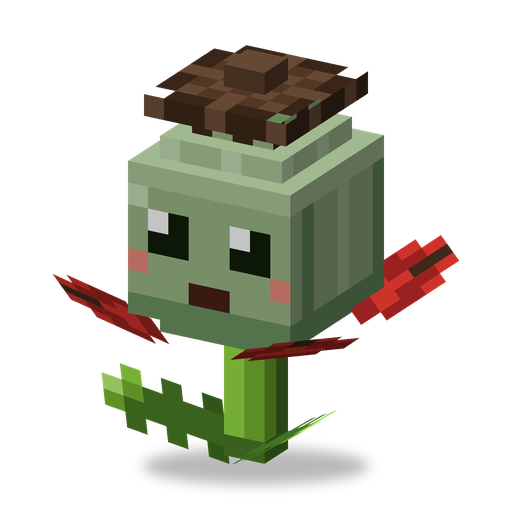
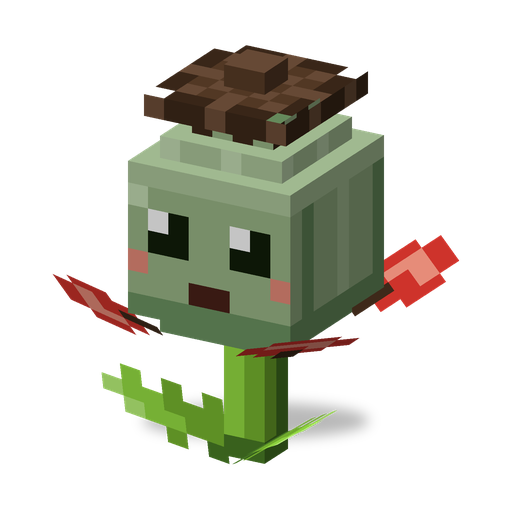
docs: character pictures draw only the faces a box lists
render_character.py reads addBox(..., visibleSides), inline or a named
EnumSet constant, so the Poppy Rattle's one-sided petals and leaves look
in the pictures as in the game.

diff --git a/tools/docs/render_character.py b/tools/docs/render_character.py
@@ -91,7 +91,7 @@ class Part:
         self.offset = np.zeros(3)
         self.rotation = np.zeros(3)  # radians, x y z
         self.scale = np.ones(3)
-        self.cubes = []              # (u, v, mirror, x, y, z, w, h, d, inflate)
+        self.cubes = []              # (u, v, mirror, x, y, z, w, h, d, inflate, faces or None = all)
         self.children = []
 
 
@@ -100,8 +100,22 @@ def strip_comments(text):
     return re.sub(r"//[^\n]*", "", text)
 
 
+# Minecraft's Direction of a box face -> the face name here. Model Y points down, so DOWN is the face at
+# the box's top (seen from above) and UP the one at its bottom.
+DIRECTION_FACES = {"DOWN": "top", "UP": "bottom", "NORTH": "north", "SOUTH": "south", "WEST": "west", "EAST": "east"}
+
+
+def parse_faces(expr):
+    """Face names of an `EnumSet.of(Direction.X, ...)` expression, or None if it lists none."""
+    names = [DIRECTION_FACES[d] for d in re.findall(r"Direction\.(\w+)", expr) if d in DIRECTION_FACES]
+    return set(names) or None
+
+
 def parse_model(text):
     text = strip_comments(text)
+    # named face sets, as in `val ONE_FACE: Set<Direction> = EnumSet.of(Direction.DOWN)`
+    face_sets = {m.group(1): parse_faces(m.group(2)) for m in re.finditer(
+        r"\b(\w+)\s*(?::[^=\n]*)?=\s*(?:java\.util\.)?EnumSet\.of\(([^()]*)\)", text)}
     size = re.search(r"LayerDefinition\.create\(\s*\w+\s*,\s*(\d+)\s*,\s*(\d+)\s*\)", text)
     tex_w, tex_h = (int(size.group(1)), int(size.group(2))) if size else (64, 64)
     root = Part("root", None)
@@ -144,7 +158,11 @@ def parse_model(text):
                 if deformation:
                     inflate = num(deformation.group(1))
                 box = [num(x) for x in values[:6]]
-                part.cubes.append((u, v, mirror, *box, inflate))
+                # addBox(x, y, z, w, h, d, visibleSides): only the listed faces are drawn
+                faces = parse_faces(args)
+                for name in re.findall(r"\b([A-Z][A-Z0-9_]+)\b", args):
+                    faces = faces or face_sets.get(name)
+                part.cubes.append((u, v, mirror, *box, inflate, faces))
     return root, (tex_w, tex_h)
 
 
@@ -222,7 +240,7 @@ MODEL_TO_WORLD[1, 3] = 24.0
 
 def collect_faces(part, parent_matrix, faces):
     matrix = parent_matrix @ part_matrix(part)
-    for (u, v, mirror, x, y, z, w, h, d, g) in part.cubes:
+    for (u, v, mirror, x, y, z, w, h, d, g, visible) in part.cubes:
         x0, y0, z0, x1, y1, z1 = x - g, y - g, z - g, x + w + g, y + h + g, z + d + g
         # (texture rect u, v, width, height), origin corner, s-edge, t-edge, local outward normal
         tw, th, td = w, h, d
@@ -237,6 +255,8 @@ def collect_faces(part, parent_matrix, faces):
         if mirror:  # Minecraft swaps the east/west textures and flips u
             defs["west"], defs["east"] = (defs["east"][0],) + defs["west"][1:], (defs["west"][0],) + defs["east"][1:]
         for name, (rect, o, s_end, t_end, normal) in defs.items():
+            if visible is not None and name not in visible:
+                continue  # addBox(..., visibleSides) leaves this face out
             if rect[2] <= 0 or rect[3] <= 0:
                 continue  # zero-area face of a flat plane
             pts = [np.array([*p, 1.0]) for p in (o, s_end, t_end)]

diff --git a/art/poppy_rattle/draw_poppy_rattle.py b/art/poppy_rattle/draw_poppy_rattle.py
@@ -152,8 +152,8 @@ def draw_body(eyes="open"):
     fill(img, 46, 17, 4, 6, PAPER_SH)
 
     # ---- petal plane 5x0x5 at (0,27): row 0 at the head, row 4 the tip; a black blotch at the base ----
-    # The game draws only the first square (the side seen from above, ONE_FACE in the model); the second
-    # is the underside the docs renderer still shows.
+    # Only the first square is drawn, from both sides (ONE_FACE in the model); the second, the underside,
+    # is left unused, and so are the leaves' second squares.
     pal = {"r": RED, "R": RED_HI, "s": RED_SH, "d": LID_DEEP}
     rows(img, 5, 27, ["..d..",
                       ".rdr.",
